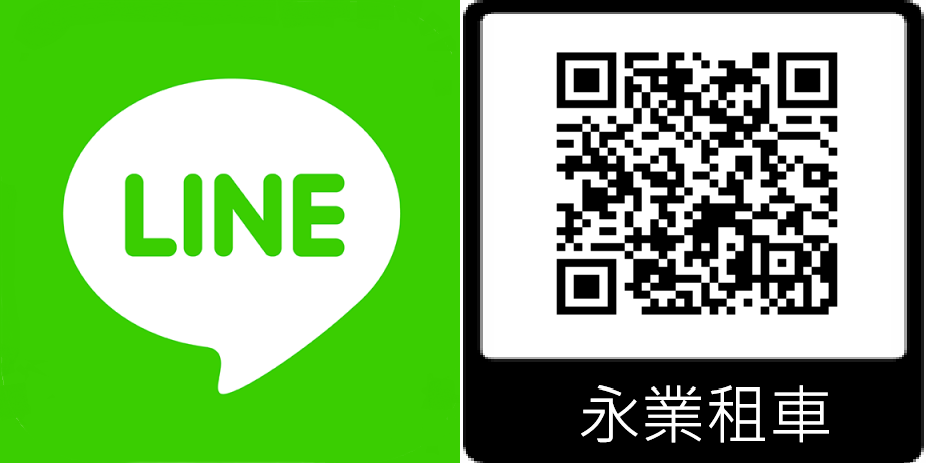
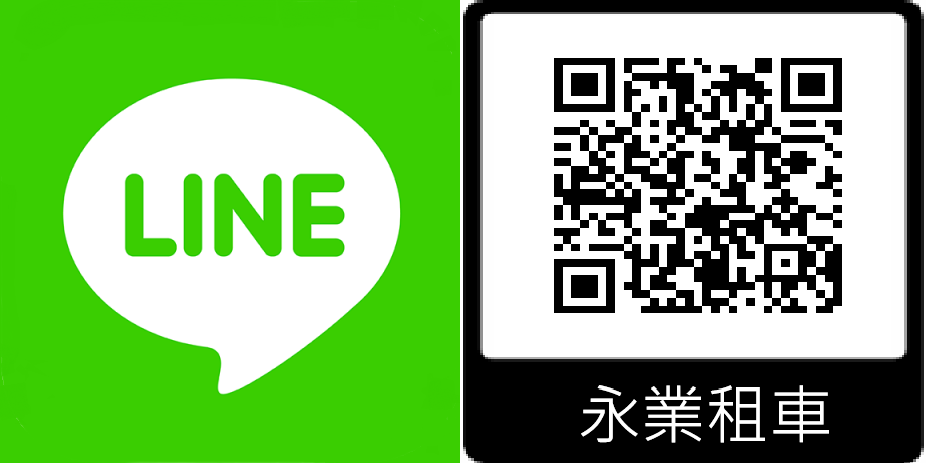
更新QR code 和連結

Changed region(s): [[0.5745, 0.0907, 0.9071, 0.6955]]

diff --git a/public/index.html b/public/index.html
@@ -110,7 +110,7 @@
         <div class="row mb-3">
 
           <div class="col-6">
-            <button type="button" onclick=location.href="https://line.me/ti/p/xeApvGrPD7"
+            <button type="button" onclick=location.href="https://line.me/ti/p/Fi4EQf8jpC"
             class="btn  btn-costume btn-lg h-100 w-100 mb-3"style="border-radius:10px;background-color:rgb(87,190,55)">
             <h3>加入<br>LINE</h3>
           </button>
@@ -175,7 +175,7 @@
           <div class="row mb-3">
 
             <div class="col-6">
-              <button type="button" onclick=location.href="https://line.me/ti/p/xeApvGrPD7"
+              <button type="button" onclick=location.href="https://line.me/ti/p/Fi4EQf8jpC"
               class="btn  btn-costume btn-lg h-100 w-100 mb-3"style="border-radius:10px;background-color:rgb(87,190,55)">
               <h3>加入<br>LINE</h3>
             </button>
@@ -277,7 +277,7 @@
 
     <script>
       document.getElementById('ad').addEventListener('click', function () {
-      //  window.location.href = "https://line.me/ti/p/xeApvGrPD7"
+      //  window.location.href = "https://line.me/ti/p/Fi4EQf8jpC"
       })
     </script>
 </body>

diff --git a/public/pages/airportTrans.html b/public/pages/airportTrans.html
@@ -72,7 +72,7 @@
    <div class="row mb-3">
 
             <div class="col-6">
-              <button type="button" onclick=location.href="https://line.me/ti/p/xeApvGrPD7"
+              <button type="button" onclick=location.href="https://line.me/ti/p/Fi4EQf8jpC"
               class="btn  btn-costume btn-lg h-100 w-100 mb-3"style="border-radius:10px;background-color:rgb(87,190,55)">
               <h3>加入<br>LINE</h3>
             </button>
@@ -164,7 +164,7 @@
   <!-- <div class="card  ">
     <div class="row g-0 ">
        <div class="col-sm-3 ">
-        <button type="button" onclick=location.href="https://line.me/ti/p/xeApvGrPD7"
+        <button type="button" onclick=location.href="https://line.me/ti/p/Fi4EQf8jpC"
           class="btn btn-costume btn-lg h-100 w-100"><h3>立即聯絡</h3></button>
       </div>
       <div class="col-sm-4">
@@ -277,7 +277,7 @@
   </div>
   <script >
     document.getElementById('ad').addEventListener('click',function(){
-      //window.location.href="https://line.me/ti/p/xeApvGrPD7"
+      //window.location.href="https://line.me/ti/p/Fi4EQf8jpC"
     })
   </script>
   <!-- 測邊浮動視窗 end -->

diff --git a/public/pages/contact.html b/public/pages/contact.html
@@ -74,7 +74,7 @@
           <div id="carouselExampleCaptions" class=" carousel slide w-100 ">
             <div class="carousel-inner fly-img ">
               <div class="carousel-item active ">
-                <a href="https://line.me/ti/p/xeApvGrPD7"><img src="../pictures/new-line.png" class="d-block w-100 " alt="Line-image"></a>
+                <a href="https://line.me/ti/p/Fi4EQf8jpC"><img src="../pictures/new-line.png" class="d-block w-100 " alt="Line-image"></a>
               </div>
             </div>
           </div>
